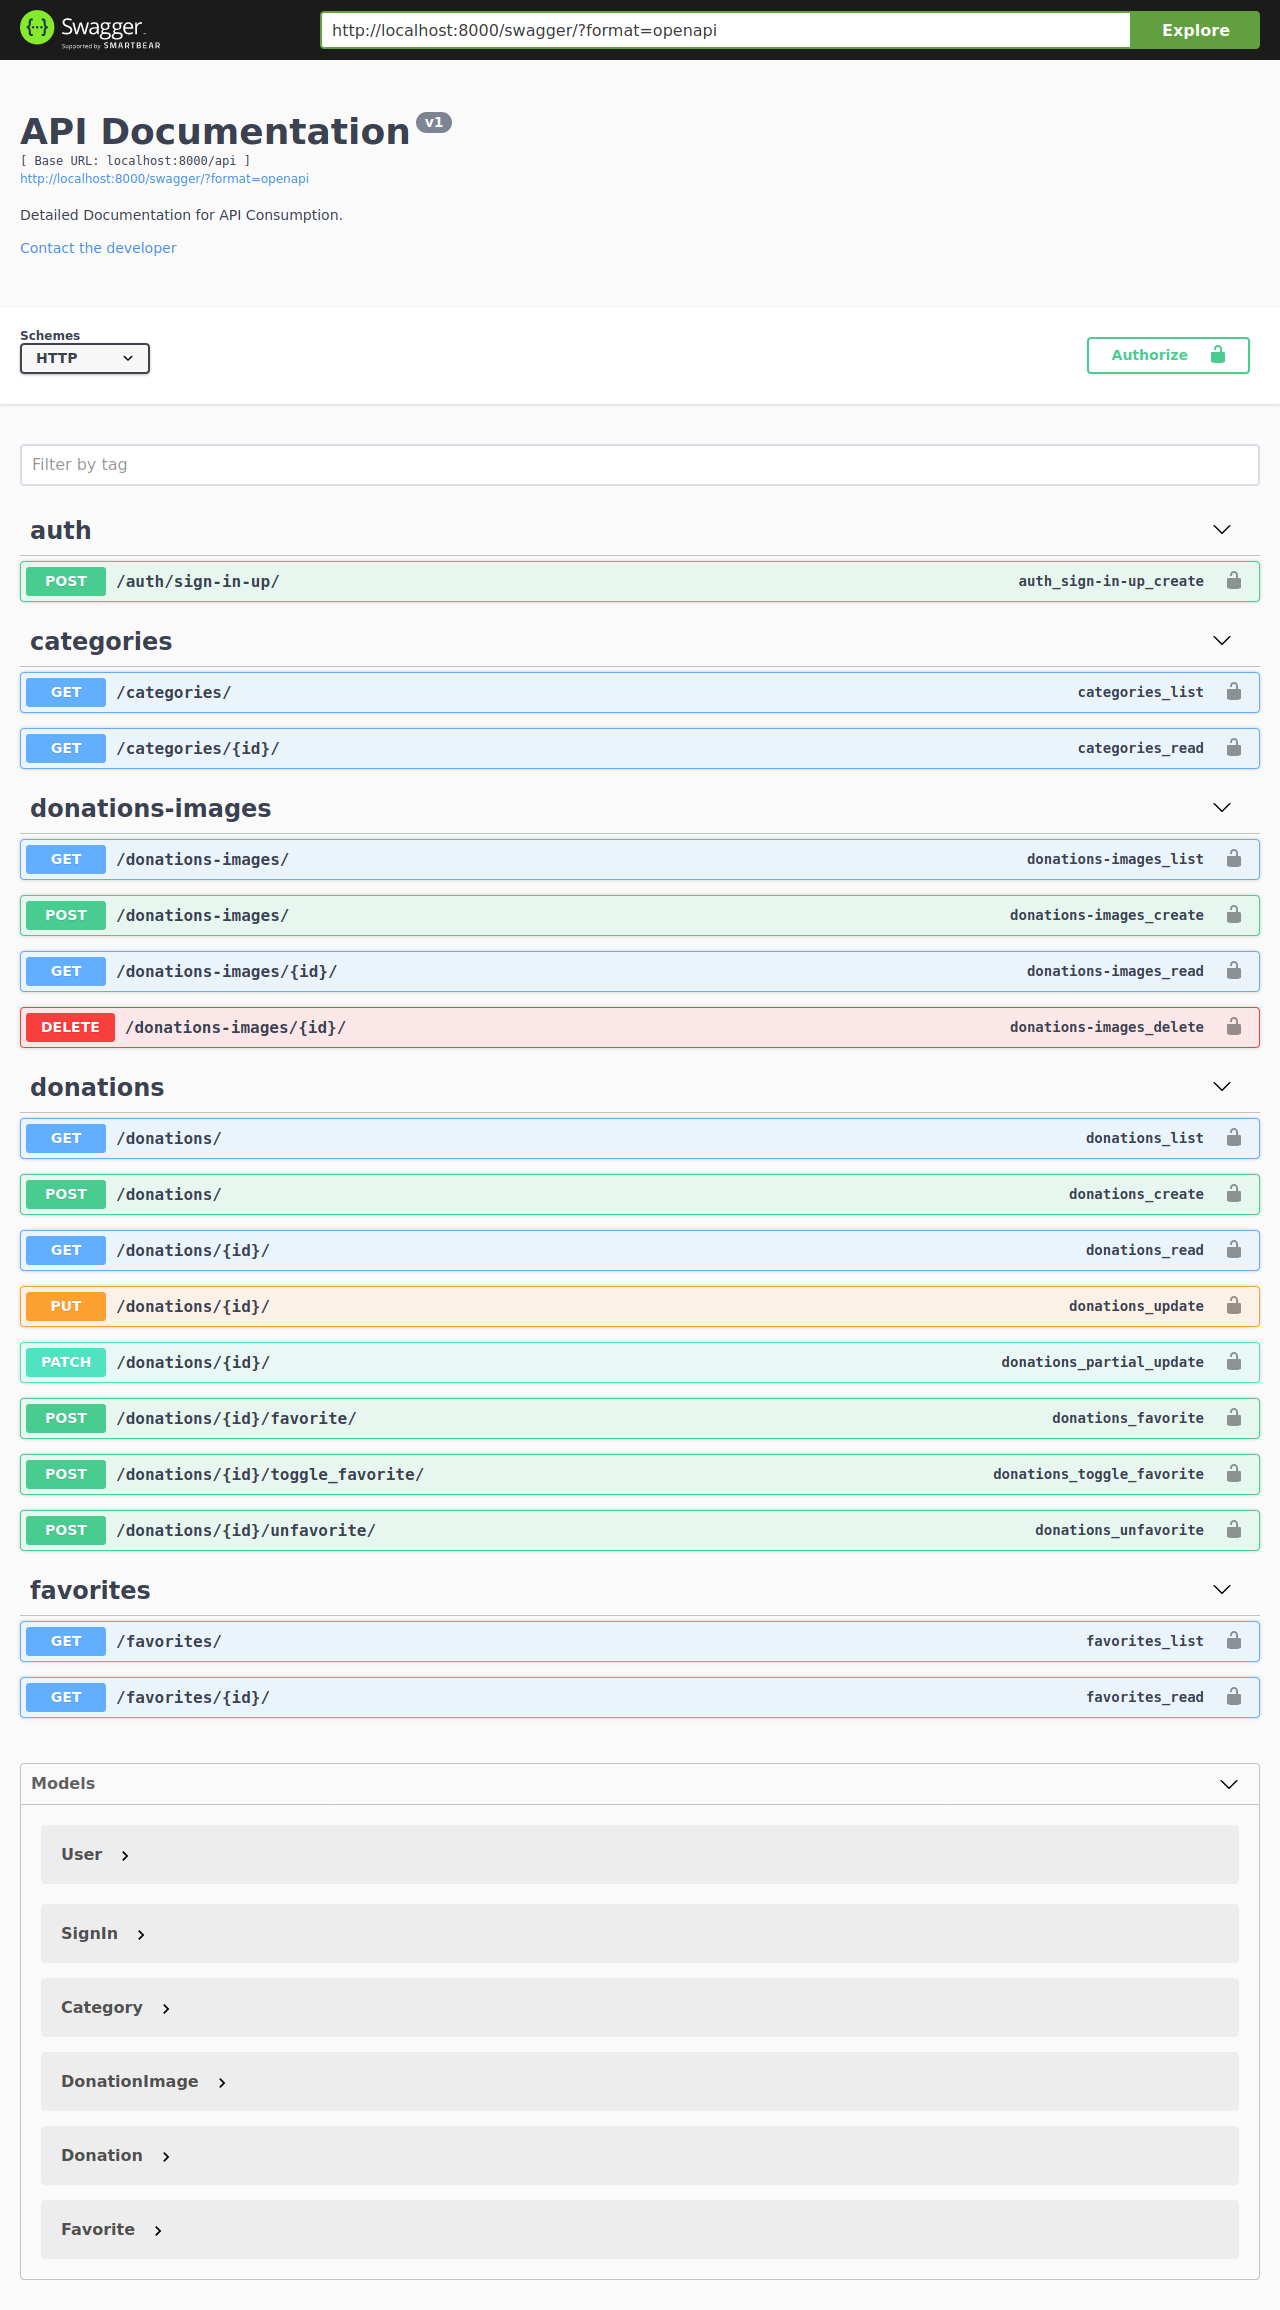
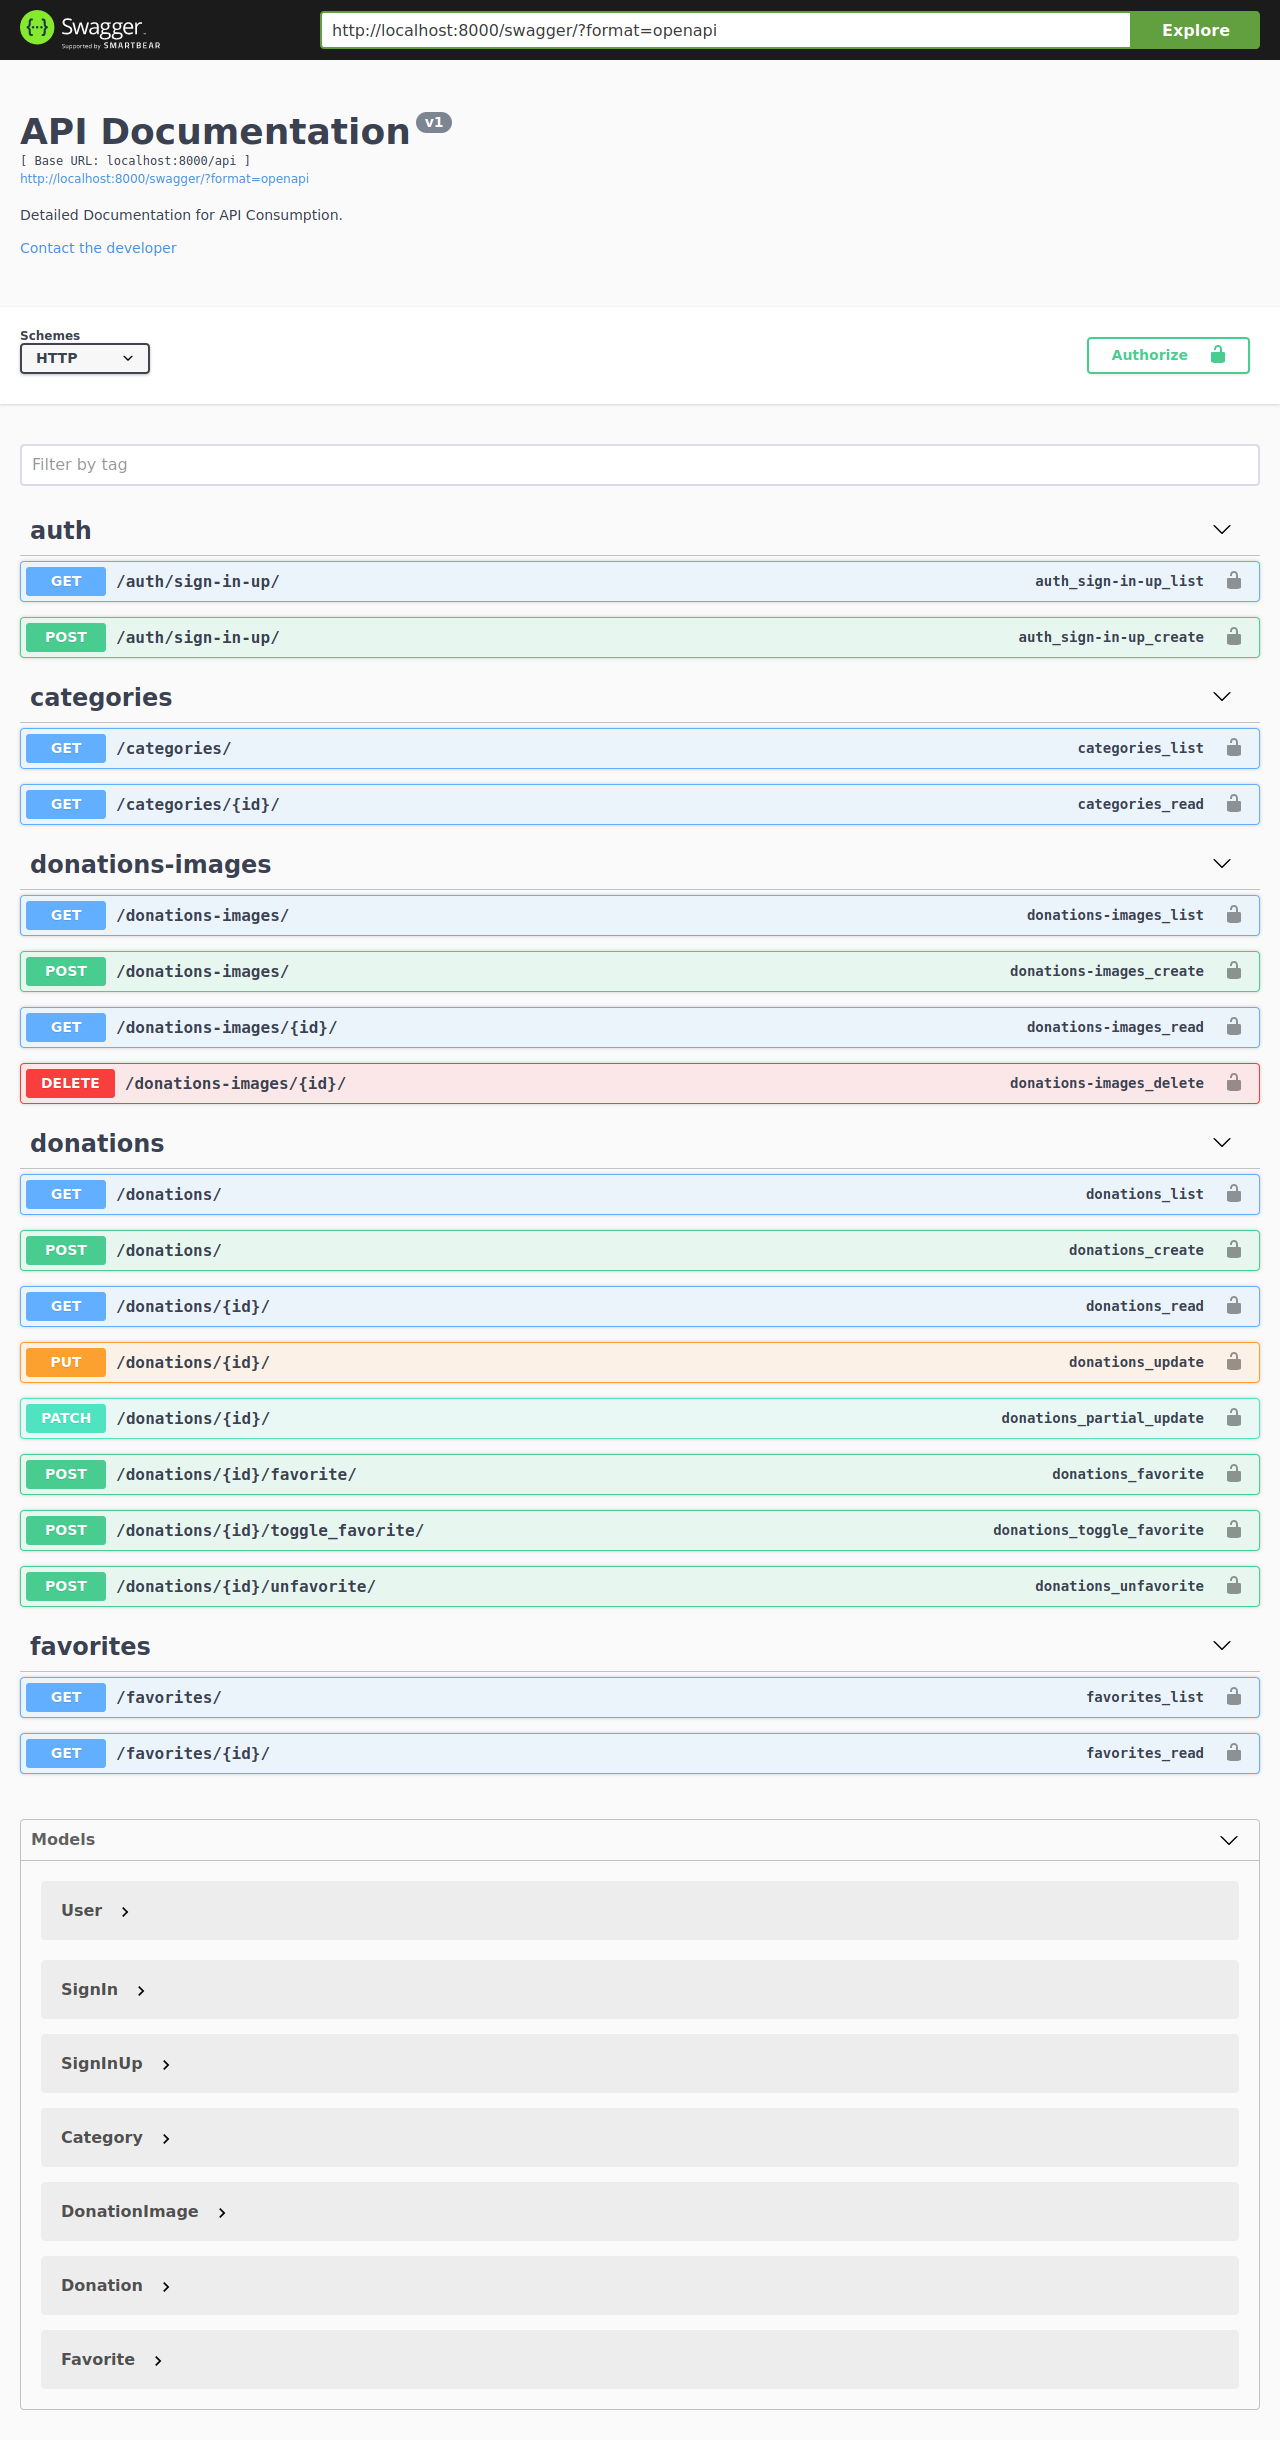
added google access token validation based on project number, added way to do signInUp by get method, updated documentation to represent new configurations

Changed region(s): [[0.0, 0.187, 0.9688, 0.9662], [0.0, 0.0, 0.9688, 0.1558], [0.8438, 0.1247, 0.9688, 0.1558]]

diff --git a/users/views.py b/users/views.py
@@ -1,5 +1,6 @@
 import json
 
+from decouple import config
 from django.contrib.auth import get_user_model
 from django.core.files.uploadedfile import SimpleUploadedFile
 from django.db import transaction
@@ -10,7 +11,6 @@ from rest_framework import generics, serializers, status
 from rest_framework_jwt.utils import jwt_payload_handler, jwt_encode_handler
 from rest_framework.response import Response
 from rest_framework.views import APIView
-
 from .serializers import UserSerializer, SignInSerializer, SignInUpSerializer
 
 
@@ -18,17 +18,44 @@ class SignInUpView(APIView):
     @swagger_auto_schema(query_serializer=SignInUpSerializer,
                          responses={200: SignInSerializer()},)
     @transaction.atomic()
+    def get(self, request):
+        sign_in_up_serializer = SignInUpSerializer(data=request.query_params)
+
+        return self._handle_sign_in_up_serializer(sign_in_up_serializer)
+
+    @swagger_auto_schema(request_body=SignInUpSerializer,
+                         responses={200: SignInSerializer()},)
+    @transaction.atomic()
     def post(self, request):
         sign_in_up_serializer = SignInUpSerializer(data=request.data)
 
+        return self._handle_sign_in_up_serializer(sign_in_up_serializer)
+
+    def _handle_sign_in_up_serializer(self, sign_in_up_serializer):
         sign_in_up_serializer.is_valid()
 
-        token = sign_in_up_serializer.data['social_auth_google_token']
+        google_access_token = sign_in_up_serializer.data['google_access_token']
 
-        if not token:
+        if not google_access_token:
             raise serializers.ValidationError(_('Token não informado!'))
 
-        userinfo_url = f'https://www.googleapis.com/oauth2/v1/userinfo?access_token={token}'
+        tokeninfo_url = f'https://www.googleapis.com/oauth2/v1/tokeninfo?access_token={google_access_token}'
+        response_tokeninfo = requests.get(tokeninfo_url)
+
+        if response_tokeninfo.status_code != 200:
+            raise serializers.ValidationError(_('Token inválido!'))
+
+        data = json.loads(response_tokeninfo.text)
+
+        google_project_number = config('GOOGLE_PROJECT_NUMBER')
+
+        if not google_project_number:
+            raise serializers.ValidationError(_('Validador não definido!'))
+
+        if not data['audience'].startswith(google_project_number):
+            raise serializers.ValidationError(_('Token inválido!'))
+
+        userinfo_url = f'https://www.googleapis.com/oauth2/v1/userinfo?access_token={google_access_token}'
         response_userinfo = requests.get(userinfo_url)
 
         if response_userinfo.status_code != 200:

diff --git a/users/serializers.py b/users/serializers.py
@@ -17,7 +17,7 @@ class UserSerializer(serializers.ModelSerializer):
 
 
 class SignInUpSerializer(serializers.Serializer):
-    social_auth_google_token = serializers.CharField(required=True)
+    google_access_token = serializers.CharField(required=True)
 
 
 class SignInSerializer(serializers.Serializer):

diff --git a/README.md b/README.md
@@ -51,6 +51,9 @@ DISABLE_COLLECTSTATIC=
 CLOUDINARY_CLOUD_NAME=
 CLOUDINARY_API_KEY=
 CLOUDINARY_API_SECRET=
+
+# the google project identificator, used to validate access tokens
+GOOGLE_PROJECT_NUMBER=
 ```
 6. Update database schema, _only in first running_.
 ```bash
